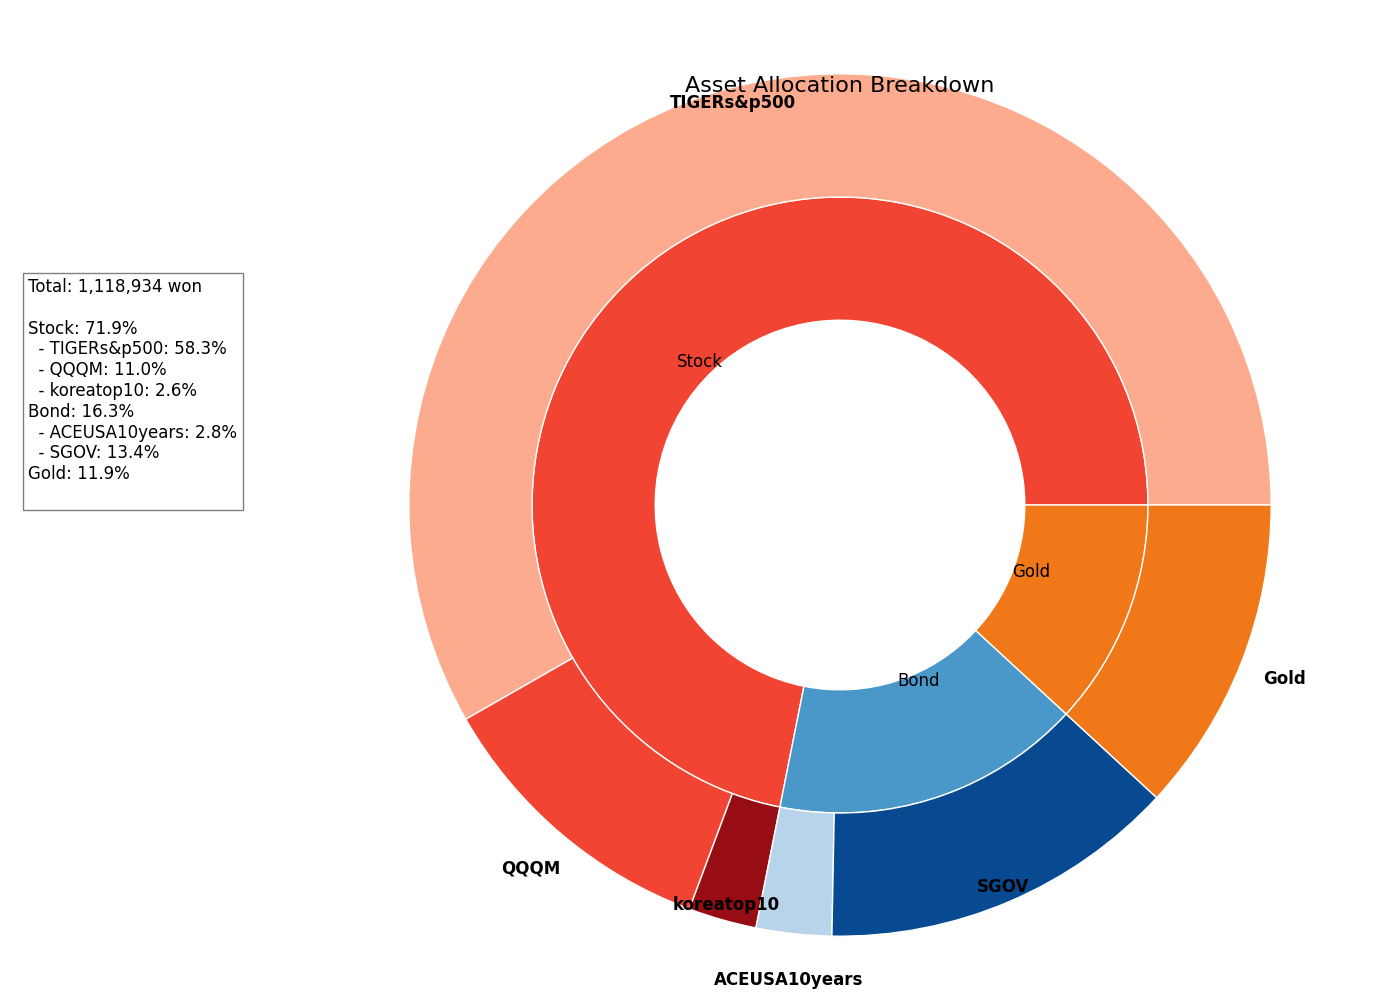
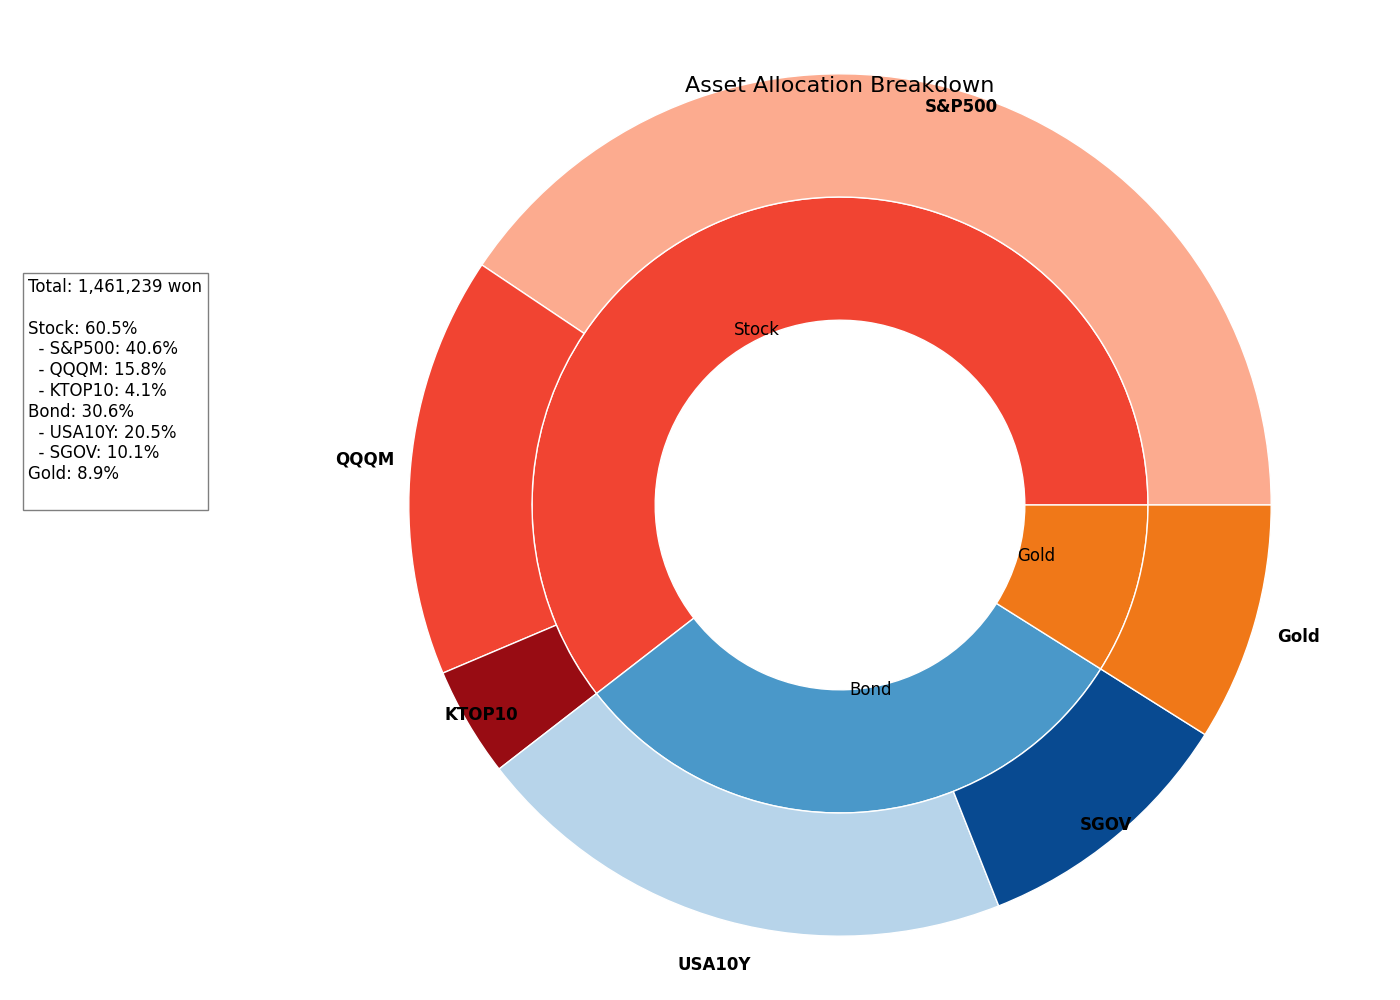
종목을 추가함 schd

diff --git a/자산배분/자산배분.c b/자산배분/자산배분.c
@@ -1,6 +1,5 @@
 // #include <Python.h>
 
-#include "cJSON.h"
 #include <stdio.h>
 #include <stdlib.h>
 #include <string.h>
@@ -10,12 +9,12 @@
 // [오류 수정 1] 구조체 정의를 함수 원형보다 위로 올렸습니다.
 typedef struct {
   long int stock_price[MAX];
-  char stock_name[MAX][40];
+  char stock_name[MAX][100];
   int stock_goal[MAX];
 } stock;
 typedef struct {
   long int bond_price[MAX];
-  char bond_name[MAX][40];
+  char bond_name[MAX][100];
   int bond_goal[MAX];
 } bond;
 typedef struct {
@@ -195,7 +194,7 @@ void f_save(money *p_money, int *pnum) {
     return;
   }
   // 1. 헤더
-  fprintf(fp, "총자산\t전체주식\t채권\t금\t예수금\n");
+  fprintf(fp, "총자산\t전체주식\t채권\t금\t추가할seed\n");
   // 2. 자산 데이터
   fprintf(fp, "%ld\t%ld\t%ld\t%ld\t%ld\n", p_money->all, p_money->all_stock,
           p_money->all_bond, p_money->gold, p_money->cash);
@@ -407,45 +406,6 @@ void show_chart(money *p_money, int *pnum) {
 }
 
 void pyapi(money *p_money, int *pnum) {
-  printf("파이썬 API를 실행합니다...\n");
-  // .venv의 python을 사용하도록 변경
-  system("../.venv/bin/python apiopen.py");
-  FILE *fp = fopen("data.json", "r");
-  if (fp == NULL) {
-    printf("파일을 열 수 없습니다.\n");
-    return;
-  }
-
-  // 2. 파일 크기 확인 및 전체 내용을 읽을 버퍼 준비
-  fseek(fp, 0, SEEK_END);
-  long file_size = ftell(fp);
-  fseek(fp, 0, SEEK_SET);
-
-  char *json_buffer = (char *)malloc(file_size + 1);
-  fread(json_buffer, 1, file_size, fp);
-  json_buffer[file_size] = '\0'; // 문자열 끝에 널 문자 추가
-  fclose(fp);
-  cJSON *json = cJSON_Parse(json_buffer);
-
-  // 파싱에 실패했을 경우 안전하게 종료
-  if (json == NULL) {
-    printf("JSON 파싱 에러 발생!\n");
-    free(json_buffer); // 에러가 나도 메모리는 돌려줘야 합니다.
-    return;
-  }
-  double amount = 0.0;
-  char stocks[20];
-  cJSON *price = cJSON_GetObjectItemCaseSensitive(json, "amount");
-  if (cJSON_IsNumber(price)) {
-    amount = price->valuedouble;
-  }
-  cJSON *stocks1 = cJSON_GetObjectItemCaseSensitive(json, "ticker");
-  if (cJSON_IsString(stocks1) && (stocks1->valuestring != NULL)) {
-    strcpy(stocks, stocks1->valuestring);
-  }
-  cJSON_Delete(json); // 파싱된 JSON 객체 삭제
-  free(json_buffer);  // 파일을 읽어왔던 임시 버퍼 삭제
-  printf("%lf\n", amount);
-  printf("%s", stocks);
-  // 파일은 다 읽었으니 닫아줍니다.
+  printf("이 기능은 준비중입니다..\n");
+  return;
 }

diff --git a/자산배분/draw_chart.py b/자산배분/draw_chart.py
@@ -1,9 +1,9 @@
 import matplotlib.pyplot as plt
 import numpy as np
 group_names = ['Stock', 'Bond', 'Gold']
-group_size = [804242, 181852, 132840]
-subgroup_names = ['TIGERs&p500', 'QQQM', 'koreatop10', 'ACEUSA10years', 'SGOV', 'Gold']
-subgroup_size = [652080, 123572, 28590, 31620, 150232, 132840]
+group_size = [883858, 446841, 130540]
+subgroup_names = ['S&P500', 'QQQM', 'KTOP10', 'USA10Y', 'SGOV', 'Gold']
+subgroup_size = [593280, 230463, 60115, 299740, 147101, 130540]
 a, b, c = [plt.cm.Reds, plt.cm.Blues, plt.cm.YlOrBr]
 outer_colors = []
 outer_colors += [a(x) for x in np.linspace(0.3, 0.9, 3)]
@@ -26,11 +26,11 @@ textstr = ''
 total = sum(group_size)
 textstr += f'Total: {total:,} won\n\n'
 textstr += f'Stock: {group_size[0]/total*100:.1f}%\n'
-textstr += f'  - TIGERs&p500: {subgroup_size[0]/total*100:.1f}%\n'
+textstr += f'  - S&P500: {subgroup_size[0]/total*100:.1f}%\n'
 textstr += f'  - QQQM: {subgroup_size[1]/total*100:.1f}%\n'
-textstr += f'  - koreatop10: {subgroup_size[2]/total*100:.1f}%\n'
+textstr += f'  - KTOP10: {subgroup_size[2]/total*100:.1f}%\n'
 textstr += f'Bond: {group_size[1]/total*100:.1f}%\n'
-textstr += f'  - ACEUSA10years: {subgroup_size[3]/total*100:.1f}%\n'
+textstr += f'  - USA10Y: {subgroup_size[3]/total*100:.1f}%\n'
 textstr += f'  - SGOV: {subgroup_size[4]/total*100:.1f}%\n'
 textstr += f'Gold: {group_size[2]/total*100:.1f}%\n'
 plt.gcf().text(0.02, 0.5, textstr, fontsize=12, bbox=dict(facecolor='white', alpha=0.5))

diff --git a/자산배분/apiopen.py b/자산배분/apiopen.py
@@ -44,7 +44,7 @@ print(balance.account_number)
 print(repr(balance.stocks))
 print(balance.amount)
 print(balance.current_amount)
-#print(repr(balance1))
+print(repr(balance1))
 
 class DecimalEncoder(json.JSONEncoder):
     def default(self, obj):